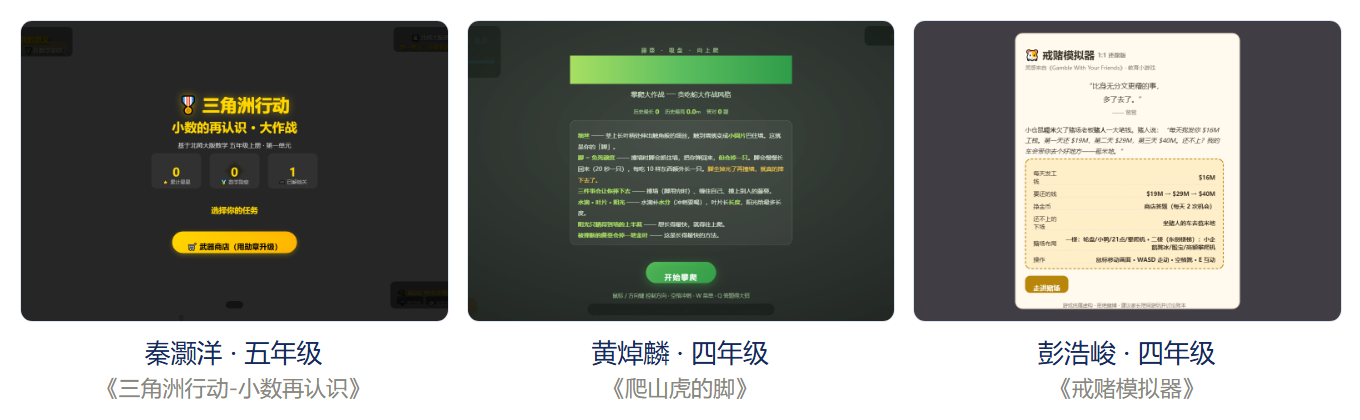
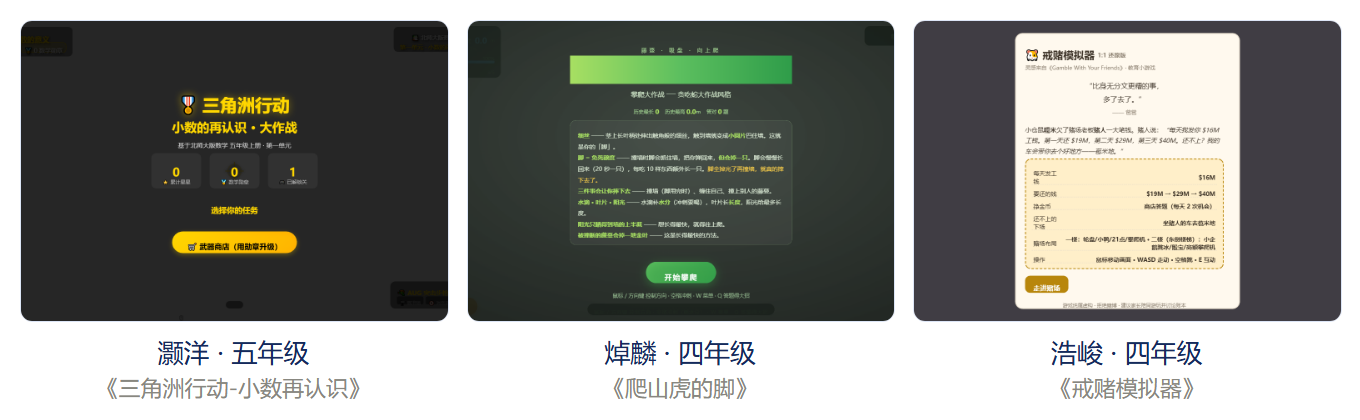
content(ai-native): 配图4图注去姓氏（隐私）——灏洋/焯麟/浩峻

Changed region(s): [[0.7412, 0.8048, 0.8956, 0.8667], [0.4324, 0.8048, 0.5868, 0.8667], [0.0926, 0.8048, 0.2471, 0.8667]]

diff --git a/.workbuddy/content/ai-native-edu/images/fig4.html b/.workbuddy/content/ai-native-edu/images/fig4.html
@@ -9,8 +9,8 @@ body{margin:0;background:#ffffff;font-family:-apple-system,'PingFang SC','Micros
 </style></head>
 <body>
 <div class="row">
-  <div class="col"><img src="work-qin-delta.png"><div class="t">秦灏洋 · 五年级</div><div class="s">《三角洲行动-小数再认识》</div></div>
-  <div class="col"><img src="work-huang-pashanhu.png"><div class="t">黄焯麟 · 四年级</div><div class="s">《爬山虎的脚》</div></div>
-  <div class="col"><img src="work-peng-jiedu.png"><div class="t">彭浩峻 · 四年级</div><div class="s">《戒赌模拟器》</div></div>
+  <div class="col"><img src="work-qin-delta.png"><div class="t">灏洋 · 五年级</div><div class="s">《三角洲行动-小数再认识》</div></div>
+  <div class="col"><img src="work-huang-pashanhu.png"><div class="t">焯麟 · 四年级</div><div class="s">《爬山虎的脚》</div></div>
+  <div class="col"><img src="work-peng-jiedu.png"><div class="t">浩峻 · 四年级</div><div class="s">《戒赌模拟器》</div></div>
 </div>
 </body></html>

diff --git a/.workbuddy/content/ai-native-edu/02-launch-kit.md b/.workbuddy/content/ai-native-edu/02-launch-kit.md
@@ -29,7 +29,7 @@
 | `images/fig1-jinziguta.png` | 配图 1（第一节） | 信奥赛道金字塔（塔尖极少数 / 陪跑 / 塔基），顶部标注"1984 起·四十二年·第 43 届" |
 | `images/fig2-qiangjian.png` | 配图 2（第二节） | 高墙 → 门槛对比图，底注 = 全文核心句 |
 | `images/fig3-sanbuzou.png` | 配图 3（第四节） | 三步走路径 + 终极目标 |
-| `images/fig4-works.png` | 配图 4（第五节） | 三件真实作品封面三联图（封面取自作品墙，秦灏洋那张开屏就写着"基于北师大版数学 五年级上册·第一单元"） |
+| `images/fig4-works.png` | 配图 4（第五节） | 三件真实作品封面三联图（封面取自作品墙，图注**只写名不写姓**：灏洋/焯麟/浩峻；灏洋那张开屏就写着"基于北师大版数学 五年级上册·第一单元"） |
 
 **上传方式（重要）**：公众号后台不支持从本地 HTML 粘贴图片——`01-article.html` 里的 `images/…` 相对路径在粘贴后不会带上图。正确流程：
 1. 粘贴正文 HTML 到后台

diff --git a/.workbuddy/memory/2026-09-18.md b/.workbuddy/memory/2026-09-18.md
@@ -23,6 +23,10 @@
 
 **重灌草稿要点**：`cdp_wechat.js all` 会清空正文重灌 + 重新上传 4 图（CDN 重复但无害）；复用 `_cdp_target.json` 的 targetId 即同一草稿。重灌后页面可能残留「选择图片」素材库弹窗，`document.dispatchEvent(KeyboardEvent Escape)` 可关。给 save 的截图加了 try/catch（截图超时不再 FATAL，保存动作本身不受影响）。新增 `js` 通用求值命令。
 
+## 隐私约定（用户要求）
+
+**公开物料中孩子姓名只写名不写姓**（灏洋/焯麟/浩峻），不展示完整姓名。配图 4 三联图图注已按此重渲染（fig4.html + fig4-works.png）；正文文字本来就是名不带姓。作品墙本身仍是全名展示（那是站点既有设计，未动）。用户表示公众号更新由他自己操作。
+
 ## 技术要点（已固化为 skill `wechat-mp-cdp-publish`）
 
 - **不要用 `playwright.connectOverCDP`**：Chrome 152 上 WS 连上后握手卡死（30s timeout）。改用 **Node 全局 WebSocket 手写 CDP**，零依赖、稳定。
